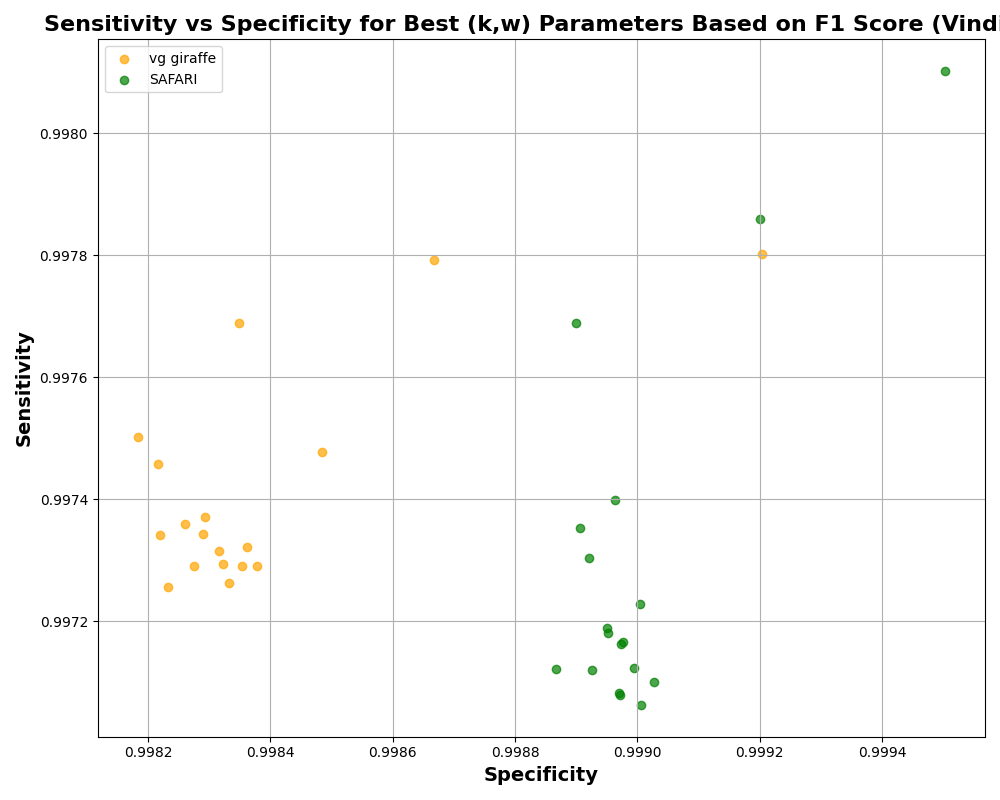
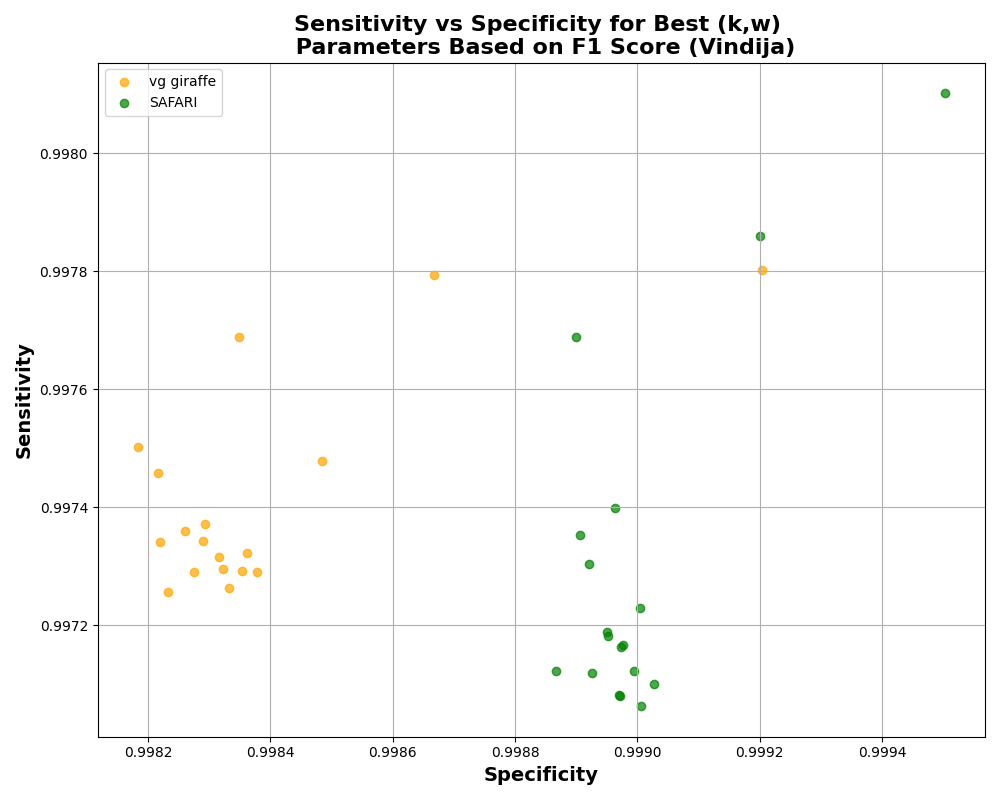
Update

diff --git a/linear_experiment/human_mito/stat_results/plot_svs_high.py b/linear_experiment/human_mito/stat_results/plot_svs_high.py
@@ -43,7 +43,7 @@ def plot_best_f1(data_path):
         tool_data = best_f1_data[best_f1_data['tool'] == tool]
         plt.scatter(tool_data['specificity'], tool_data['sensitivity'], label=f'{tool}', color=tool_colors[tool], alpha=0.7)
 
-    plt.title('Sensitivity vs Specificity for Best (k,w) Parameters Based on F1 Score (' + sys.argv[3] + ")", fontsize=16, fontweight='bold')
+    plt.title('Sensitivity vs Specificity for Best (k,w) \n Parameters Based on F1 Score (' + sys.argv[3] + ")", fontsize=16, fontweight='bold')
     plt.xlabel('Specificity', fontsize=14, fontweight='bold')
     plt.ylabel('Sensitivity', fontsize=14, fontweight='bold')
     plt.legend()

diff --git a/linear_experiment/human_mito/stat_results/plot_svs_none.py b/linear_experiment/human_mito/stat_results/plot_svs_none.py
@@ -43,7 +43,7 @@ def plot_best_f1(data_path):
         tool_data = best_f1_data[best_f1_data['tool'] == tool]
         plt.scatter(tool_data['specificity'], tool_data['sensitivity'], label=f'{tool}', color=tool_colors[tool], alpha=0.7)
 
-    plt.title('Sensitivity vs Specificity for Best (k,w) Parameters Based on F1 Score (' + sys.argv[3] + ")", fontsize=16, fontweight='bold')
+    plt.title('Sensitivity vs Specificity for Best (k,w) \n Parameters Based on F1 Score (' + sys.argv[3] + ")", fontsize=16, fontweight='bold')
     plt.xlabel('Specificity', fontsize=14, fontweight='bold')
     plt.ylabel('Sensitivity', fontsize=14, fontweight='bold')
     plt.legend()
